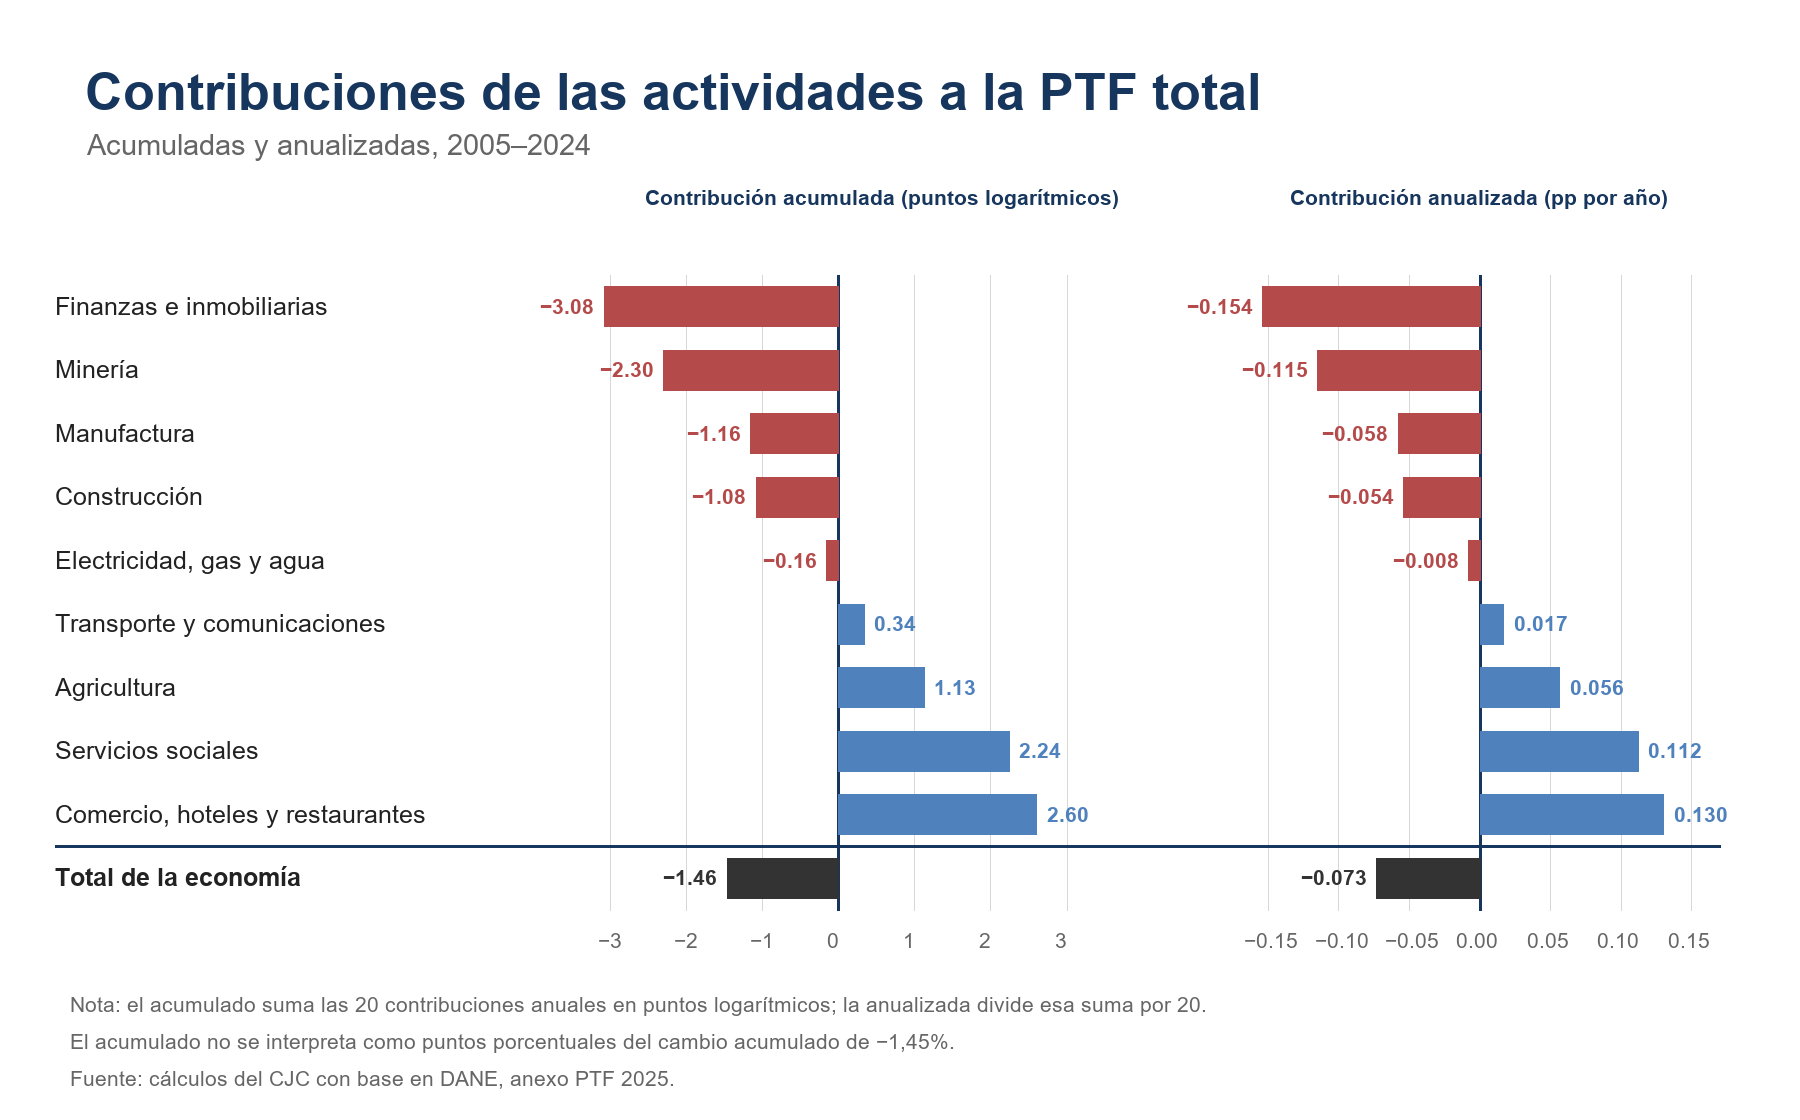
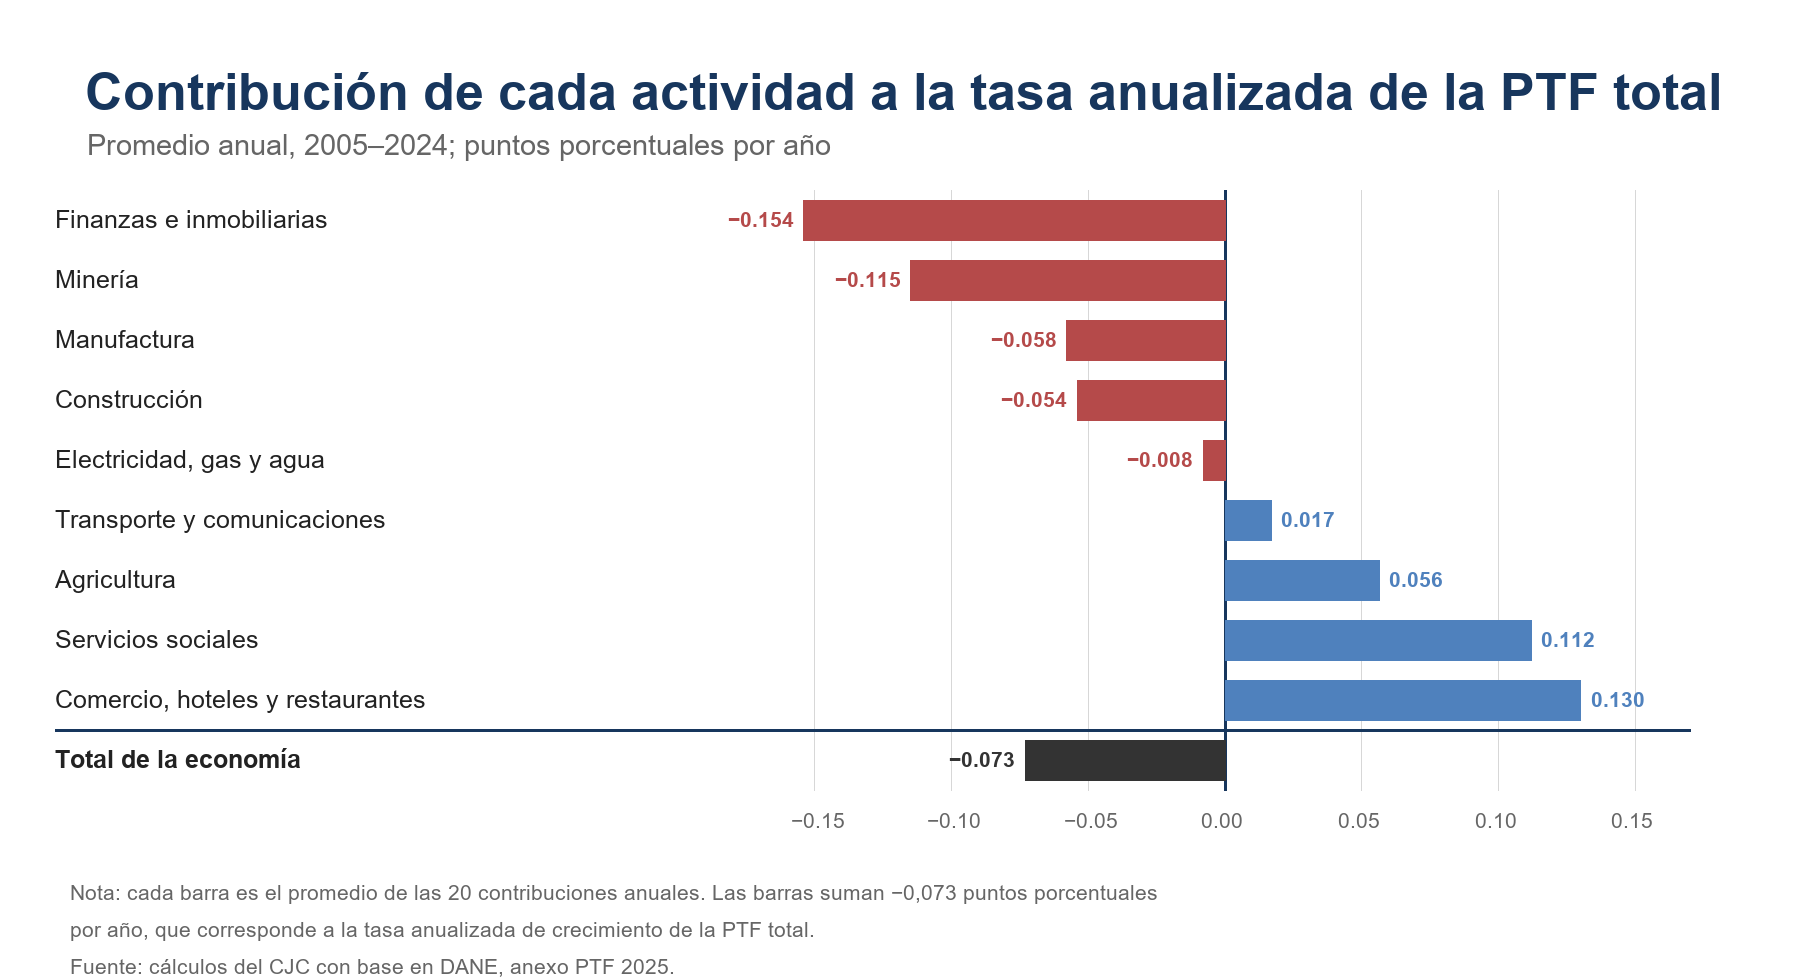
Express sector contributions as annual growth rates

diff --git a/scripts/build_ptf_data.py b/scripts/build_ptf_data.py
@@ -1111,30 +1111,16 @@ def draw_aggregate_contributions(
     )
     rows = [*sector_rows, total]
     img, draw, f = canvas(
-        "Contribuciones de las actividades a la PTF total",
-        "Acumuladas y anualizadas, 2005–2024",
+        "Contribución de cada actividad a la tasa anualizada de la PTF total",
+        "Promedio anual, 2005–2024; puntos porcentuales por año",
         1800,
-        1120,
+        980,
     )
     left_label = 55
-    top, bottom = 275, 910
-    cumulative_left, cumulative_right = 610, 1090
-    annualized_left, annualized_right = 1240, 1720
-    cumulative_min, cumulative_max = -3.0, 3.3
+    top, bottom = 190, 790
+    annualized_left, annualized_right = 760, 1690
     annualized_min, annualized_max = -0.17, 0.17
 
-    draw.text(
-        (645, 185),
-        "Contribución acumulada (puntos logarítmicos)",
-        fill=BLUE,
-        font=f["small_bold"],
-    )
-    draw.text(
-        (1290, 185),
-        "Contribución anualizada (pp por año)",
-        fill=BLUE,
-        font=f["small_bold"],
-    )
     def x_position(
         value: float,
         left: float,
@@ -1143,26 +1129,6 @@ def draw_aggregate_contributions(
         maximum: float,
     ) -> float:
         return left + (value - minimum) / (maximum - minimum) * (right - left)
-
-    for tick in [-3, -2, -1, 0, 1, 2, 3]:
-        x = x_position(
-            tick,
-            cumulative_left,
-            cumulative_right,
-            cumulative_min,
-            cumulative_max,
-        )
-        draw.line(
-            (x, top, x, bottom),
-            fill=BLUE if tick == 0 else GRID,
-            width=3 if tick == 0 else 1,
-        )
-        draw.text(
-            (x - 12, bottom + 18),
-            str(tick).replace("-", "−"),
-            fill=GRAY,
-            font=f["small"],
-        )
 
     for tick in [-0.15, -0.10, -0.05, 0, 0.05, 0.10, 0.15]:
         x = x_position(
@@ -1184,13 +1150,6 @@ def draw_aggregate_contributions(
             font=f["small"],
         )
 
-    cumulative_zero = x_position(
-        0,
-        cumulative_left,
-        cumulative_right,
-        cumulative_min,
-        cumulative_max,
-    )
     annualized_zero = x_position(
         0,
         annualized_left,
@@ -1202,15 +1161,7 @@ def draw_aggregate_contributions(
     for index, row in enumerate(rows):
         y = top + (index + 0.5) * row_h
         is_total = str(row["activity"]) == "Total de la economía"
-        accumulated = float(row["cumulative_log_contribution"])
         annualized = float(row["average_contribution"])
-        accumulated_x = x_position(
-            accumulated,
-            cumulative_left,
-            cumulative_right,
-            cumulative_min,
-            cumulative_max,
-        )
         annualized_x = x_position(
             annualized,
             annualized_left,
@@ -1234,15 +1185,6 @@ def draw_aggregate_contributions(
         )
         draw.rectangle(
             (
-                min(accumulated_x, cumulative_zero),
-                y - 20,
-                max(accumulated_x, cumulative_zero),
-                y + 20,
-            ),
-            fill=color,
-        )
-        draw.rectangle(
-            (
                 min(annualized_x, annualized_zero),
                 y - 20,
                 max(annualized_x, annualized_zero),
@@ -1251,31 +1193,13 @@ def draw_aggregate_contributions(
             fill=color,
         )
 
-        accumulated_label = f"{accumulated:.2f}".replace("-", "−")
         annualized_label = f"{annualized:.3f}".replace("-", "−")
-        accumulated_box = draw.textbbox(
-            (0, 0),
-            accumulated_label,
-            font=f["small_bold"],
-        )
         annualized_box = draw.textbbox(
             (0, 0),
             annualized_label,
             font=f["small_bold"],
         )
-        accumulated_width = accumulated_box[2] - accumulated_box[0]
         annualized_width = annualized_box[2] - annualized_box[0]
-        draw.text(
-            (
-                accumulated_x + 10
-                if accumulated >= 0
-                else accumulated_x - accumulated_width - 10,
-                y - 13,
-            ),
-            accumulated_label,
-            fill=color,
-            font=f["small_bold"],
-        )
         draw.text(
             (
                 annualized_x + 10
@@ -1289,19 +1213,19 @@ def draw_aggregate_contributions(
         )
 
     draw.text(
-        (70, 992),
-        "Nota: el acumulado suma las 20 contribuciones anuales en puntos logarítmicos; la anualizada divide esa suma por 20.",
+        (70, 880),
+        "Nota: cada barra es el promedio de las 20 contribuciones anuales. Las barras suman −0,073 puntos porcentuales",
         fill=GRAY,
         font=f["small"],
     )
     draw.text(
-        (70, 1029),
-        "El acumulado no se interpreta como puntos porcentuales del cambio acumulado de −1,45%.",
+        (70, 917),
+        "por año, que corresponde a la tasa anualizada de crecimiento de la PTF total.",
         fill=GRAY,
         font=f["small"],
     )
     draw.text(
-        (70, 1066),
+        (70, 954),
         "Fuente: cálculos del CJC con base en DANE, anexo PTF 2025.",
         fill=GRAY,
         font=f["small"],

diff --git a/Paper/sections/CuerpoInformePTF.tex b/Paper/sections/CuerpoInformePTF.tex
@@ -90,12 +90,12 @@ La comparación es contable. Una tasa de crecimiento negativa de la PTF indica q
 
 \subsection{Las contribuciones positivas y negativas casi se compensaron}
 
-\textbf{Las contribuciones sectoriales explican por qué la tasa anualizada de la PTF total fue de apenas $-0,073$\%.} La Figura \ref{fig:ptf_contribucion_total} muestra la contribución acumulada y la contribución anualizada de cada actividad. Las cuatro contribuciones positivas sumaron 6,308 puntos logarítmicos en los 20 años, equivalentes a 0,315 puntos porcentuales por año. Las otras cinco sumaron $-7,770$ puntos logarítmicos, o $-0,389$ puntos porcentuales por año. El resultado neto fue de $-1,462$ puntos logarítmicos acumulados y una tasa anualizada de la PTF total de $-0,073$\%.
+\textbf{Las contribuciones sectoriales explican por qué la tasa anualizada de la PTF total fue de apenas $-0,073$\%.} La Figura \ref{fig:ptf_contribucion_total} expresa la contribución anualizada de cada actividad en puntos porcentuales por año. Las cuatro contribuciones positivas sumaron 0,315 puntos porcentuales por año y las otras cinco restaron 0,389. El saldo fue una tasa anualizada de $-0,073$\%.
 
 \begin{figure}[H]
   \centering
   \includegraphics[width=0.98\textwidth]{Paper/figures/fig_ptf_contribucion_total_actividad.png}
-  \caption{Contribución acumulada y anualizada de las actividades a la PTF total, 2005--2024}
+  \caption{Contribución de las actividades a la tasa anualizada de crecimiento de la PTF total, 2005--2024}
   \label{fig:ptf_contribucion_total}
 \end{figure}
 
